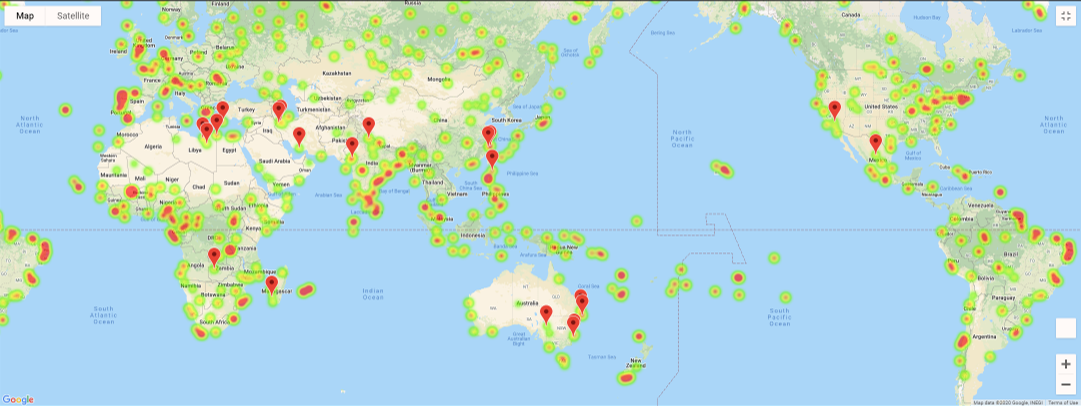
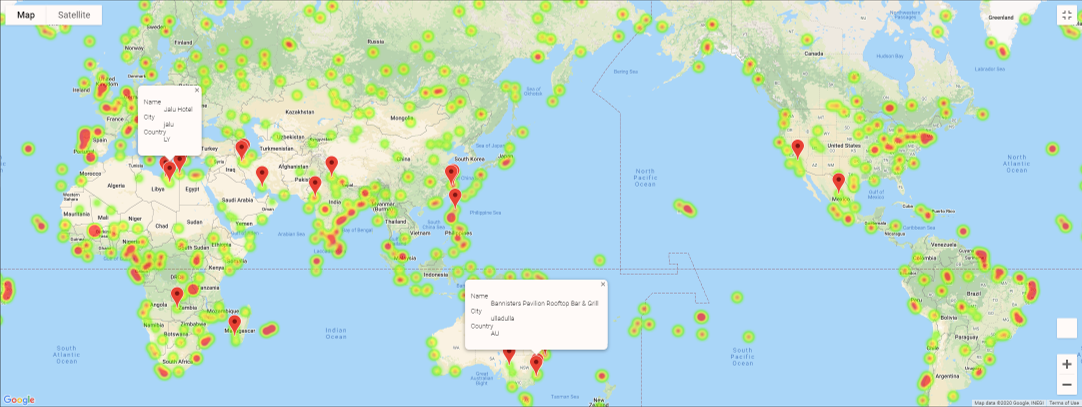
updated readme file

diff --git a/README.md b/README.md
@@ -34,14 +34,14 @@ From the analyses of the weather patterns across over 500 randomly selected citi
 
 | Regions                                             | r-squared value | Correlation |
 | --------------------------------------------------- | --------------- | ----------- |
-| Northern Hemisphere - Temperature (F) vs. Latitude  | 0.757           | strong      |
-| Southern Hemisphere - Temperature (F) vs. Latitude  | 0.497           | modest      |
-| Northern Hemisphere - Humidity (%) vs. Latitude     | 0.028           | weak        |
-| Southern Hemisphere - Humidity (%) vs. Latitude     | 0.012           | weak        |
-| Northern Hemisphere - Cloudiness (%) vs. Latitude   | 0.023           | weak        |
-| Southern Hemisphere - Cloudiness (%) vs. Latitude   | 0.002           | weak        |
-| Northern Hemisphere - Wind Speed (mph) vs. Latitude | 0.010           | weak        |
-| Southern Hemisphere - Wind Speed (mph) vs. Latitude | 0.027           | weak        |
+| Northern Hemisphere - Temperature (F) vs. Latitude  | 0.729           | strong      |
+| Southern Hemisphere - Temperature (F) vs. Latitude  | 0.407           | modest      |
+| Northern Hemisphere - Humidity (%) vs. Latitude     | 0.024           | weak        |
+| Southern Hemisphere - Humidity (%) vs. Latitude     | 0.035           | weak        |
+| Northern Hemisphere - Cloudiness (%) vs. Latitude   | 0.012           | weak        |
+| Southern Hemisphere - Cloudiness (%) vs. Latitude   | 0.014           | weak        |
+| Northern Hemisphere - Wind Speed (mph) vs. Latitude | 0.041           | weak        |
+| Southern Hemisphere - Wind Speed (mph) vs. Latitude | 0.120           | weak        |
 
 
 
@@ -118,4 +118,14 @@ From the analyses of the weather patterns across over 500 randomly selected citi
 ***Southern Hemisphere - Wind Speed (mph) vs. Latitude***
 
 ![SH Wind Speed](https://raw.githubusercontent.com/skumble27/python-api-challenge/master/Images/sh_Latitude_vs_windspeed.png)
+
+
+
+## VacationPy
+
+Based on the cities that were randomely selected in the previous task, a humidity map was generated using the Gmaps module and plotted directly onto the coordinates as shown in the image below:
+
+![Humidity Heatmap](https://raw.githubusercontent.com/skumble27/python-api-challenge/master/Images/Humidity_heat_map.png)
+
+The ideal vacation is predicated on having weather conditions that are highly conducive to an enjoyable holiday and therefore, regions with an ideal temperature range between 20 to 30 degrees C, along with 
 
